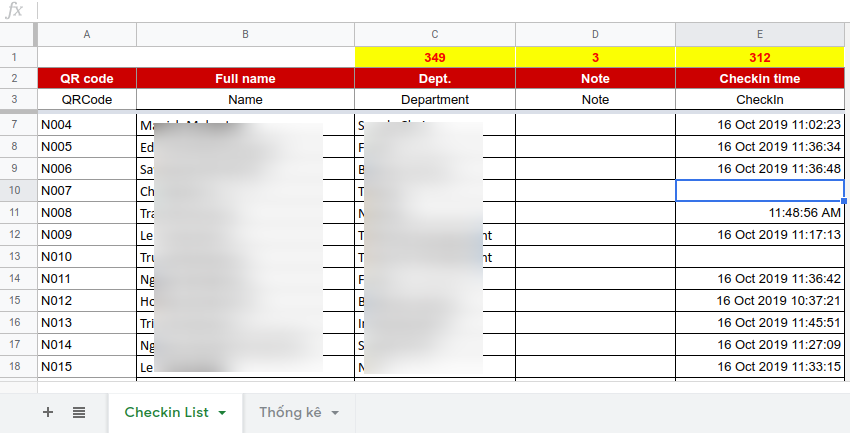
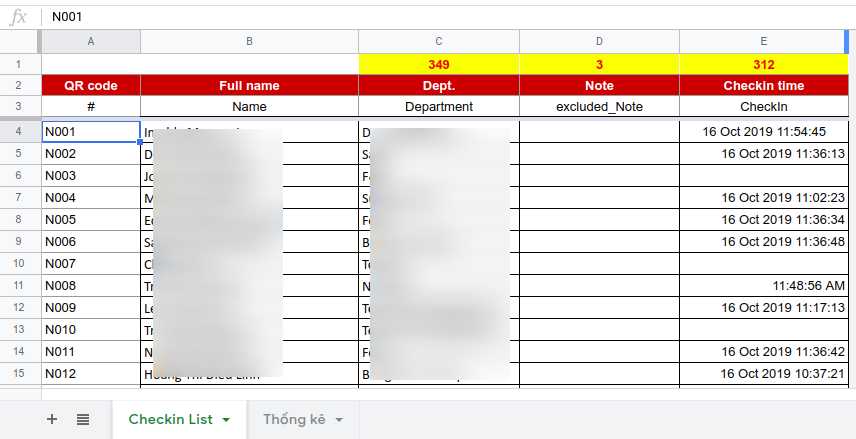
update code

diff --git a/README.md b/README.md
@@ -1,140 +1,150 @@
 
-# G-Sheet Rest.API Sample project  
-This small lib and manual help you expose an Google Sheet as a Rest-API the easy way, so you can invoke a url to query and update to the sheet.
+  
+# G-Sheet Rest.API sample project 
 
-## Introduction
-Every Google-Sheet when published as a Webservice has following BaseUrl:
-
- - For Dev: https://script.google.com/macros/s/AKfycbzBprX5bCAClCElDBuGHGwvNvBvSpoQdCqid5_XyumJ/dev
- - For Live: https://script.google.com/macros/s/AKfycbzBprX5bCAClCElDBuGHGwvNvBvSpoQdCqid5_XyumJ/exec
-
-So your RestAPI to the Sheet will look like following:
-- Base Link https://script.google.com/macros/s/AKfycbzBprX5bCAClCElDBuGHGwvNvBvSpoQdCqid5_XyumJ/dev      
-- Get One Record https://script.google.com/macros/s/AKfycbzBprX5bCAClCElDBuGHGwvNvBvSpoQdCqid5_XyumJ/dev?path=/**[your_end_point]**/**[id_value in id_column]**
-This url will return all fields of 1 (single) record/row which has id_value in the id_column
-- Get List with Paging https://script.google.com/macros/s/AKfycbzBprX5bCAClCElDBuGHGwvNvBvSpoQdCqid5_XyumJ/dev?path=/**[your_end_point]**&**order**=field_name&**offset**=0&**limit**=25
-This url will return all fields of N (**limit**) records starting at the **offset**, ordering by field_name
-- Update a Record https://script.google.com/macros/s/AKfycbzBprX5bCAClCElDBuGHGwvNvBvSpoQdCqid5_XyumJ/dev?path=/**[your_end_point]**/**[id_value in id_column]**&**method=POST**&field_name1=something&field_name2=other_something
-This url will update a single record/row which has id_value in the id_column. All fields listing here will be overwrite. The fields that do not existed in the sheet will be ignored.
-
-## Data Requirement
-First you need a Working Google Sheet with 
-
-## Installation
-Following installation procedure will be done in **The Script Editor**. Please open at menu **Tool > Script Editor**
-
-### Required Libraries  
-This project using the support of 3 other projects:
- 1. *GExpress* which helps expose a sheet to Rest  
- 2. *Tamotsu* which helps turn   a Sheet into an *ActiveRecord* style 
- 3. *GExpressTamotsu* will combine the 2 wonderful projects above.
-
-Please add the required libraries in **The Script Editor** at menu **Resource > Libraries** 
-
-|  Name|Library Key  | Version |  
-|--|--|--|  
-| Gexpress |  1Lm_jNmD2FWYF-Kgj7AdHVvLEVXZ4c5AXwzd1KJSb48scn0HLBq64um7S | 24 |  
-| Tamotsu |  1OiJIgWlrg_DFHFYX_SoaEzhFJPCmwbbfEHEqYEfLEEhKRloTNVJ-3U4s| 31 |  
-| GexpressTamotsu |  1OiJIgWlrg_DFHFYX_SoaEzhFJPCmwbbfEHEqYEfLEEhKRloTNVJ-3U4s| 33 |  
+This small lib and manual help you expose an Google Sheet as a Rest-API the easy way, so you can invoke a url to query and update to the sheet.  
+  
+## Introduction  
+Every Google-Sheet when published as a Webservice has following BaseUrl:  
+  
+ - For Dev: https://script.google.com/macros/s/AKfycbzBprX5bCAClCElDBuGHGwvNvBvSpoQdCqid5_XyumJ/dev  
+ - For Live: https://script.google.com/macros/s/AKfycbzBprX5bCAClCElDBuGHGwvNvBvSpoQdCqid5_XyumJ/exec  
+  
+So your Rest.API to the Sheet will look like following (all links are GET method): 
  
+ - Base Link https://script.google.com/macros/s/AKfycbzBprX5bCAClCElDBuGHGwvNvBvSpoQdCqid5_XyumJ/dev        
+ - Get One Record https://script.google.com/macros/s/AKfycbzBprX5bCAClCElDBuGHGwvNvBvSpoQdCqid5_XyumJ/dev?path=/**[your_end_point]**/**[id_value in id_column]**  
+This url will return all fields of 1 (single) record/row which has id_value in the id_column  
+ - Get List with Paging https://script.google.com/macros/s/AKfycbzBprX5bCAClCElDBuGHGwvNvBvSpoQdCqid5_XyumJ/dev?path=/**[your_end_point]**&**order**=field_name&**offset**=0&**limit**=25  
+This url will return all fields of N (**limit**) records starting at the **offset**, ordering by field_name  
+ - Update a Record https://script.google.com/macros/s/AKfycbzBprX5bCAClCElDBuGHGwvNvBvSpoQdCqid5_XyumJ/dev?path=/**[your_end_point]**/**[id_value in id_column]**&**method=POST**&field_name1=something&field_name2=other_something  
+This url will update the *whole single record/row* which has *id_value* in the *id_column*. All fields listing here will be overwrite. The fields which are not existed in the sheet will be ignored.   
+  
+## Data Requirement  
+  
+![alt text](https://raw.githubusercontent.com/vantt/GSheet-REST/master/document/images/GuestList.png)  
+  
+ - First you need a Working Google Sheet as picture.
+ - Second, you need (*optional*) an extra-dedicated-row serving as the header for your table.
+
+### Why needing an extra-dedicated-row for table-header?
+A table must have a header, and you always have header when working with a table. 
+But when exposing the table as a REST.API, sometime, you don't need all the fields, so an extra-dedicated-row should be used to:
+
+ - First, rename a column to *machine-friendly-name* 
+ - Second, exclude (ignore) some columns
+
+So finally, you may have two (2) headers on your table. First is for business-usage, and the second is for machine-usage.
+
+The machine-usage-header must be *immediately-above* your data.  In above example, the row-3 is *machine-usage-header*, and the row-2 is *business-usage-header*
+ 
+For any ignored columns, please name it wit prefix excluded_xxxxxx 
+
+## Installation  
+Following installation procedure will be done in **The Script Editor**. Please open at menu **Tool > Script Editor**  
+  
+### Step 1: Add required libraries 
+This project using the support of 3 other projects:  
+ 1. *GExpress* which helps expose a sheet to Rest    
+ 2. *Tamotsu* which helps turn   a Sheet into an *ActiveRecord* style   
+ 3. *GExpressTamotsu* will combine the 2 wonderful projects above.  
+  
+Please add the required libraries in **The Script Editor** at menu **Resource > Libraries**   
+|  Name|Library Key  | Version |    
+|--|--|--|    
+| Gexpress |  1Lm_jNmD2FWYF-Kgj7AdHVvLEVXZ4c5AXwzd1KJSb48scn0HLBq64um7S | 24 |    
+| Tamotsu |  1OiJIgWlrg_DFHFYX_SoaEzhFJPCmwbbfEHEqYEfLEEhKRloTNVJ-3U4s| 31 |    
+| GexpressTamotsu |  1OiJIgWlrg_DFHFYX_SoaEzhFJPCmwbbfEHEqYEfLEEhKRloTNVJ-3U4s| 33 |    
    
-### Copy following files to your project  
-- App.js  
-- GExpressTamotsu.js  
-- SampleModel.js  
-  
-### Declare your Sheet as a Model
-- clone SampleModel.js to YOUR_MODEL_NAME.js  
-- edit YOUR_MODEL_NAME.js as following  
--  
-
-     var YOUR_MODEL_NAME = new ModelDefinition(  
-      'your_rest_endpoint', 
-      'Your Sheet Name', 
-      'id column', 
-      number_of_rowshift, 
-      { 
-         autoIncrement: false, 
-         colShift: 0 
-      }, 
-      { 
-         validate: function (on) { 
-	         // if (!this['First Name']) { 
-	         //   	this.errors['First Name'] = "can't be blank"; 
-	         // } 
-         },  
-         
-	     // instance-Properties 
-	     a_calculated_field_name1: function () { 
-		      //return this['Last Name'] +  this['First Name'] 
-		 }, 
-	  }
-	 );  
-
-#### 'your_rest_endpoint'
-âsdfấdfádfádfádfádf
-
-#### 'Your Sheet Name'
-ádfấdfấdf
-
-#### id_column
-ádfấdfádf
-
-#### number_of_rowshift
-
-
-
-### Register your model in the App.js  
-  
- function setupMiddleware() {      // here is your line to register a new model   
-      app.use(YOUR_MODEL_NAME1.getMiddleWare());  
- app.use(YOUR_MODEL_NAME2.getMiddleWare()); app.use(YOUR_MODEL_NAMEX.getMiddleWare()); }  
-### Url to access your Sheet  
-- Base Link https://script.google.com/macros/s/AKfycbzBprX5bCAClCElDBuGHGwvNvBvSpoQdCqid5_XyumJ/dev      
-- Get One Record https://script.google.com/macros/s/AKfycbzBprX5bCAClCElDBuGHGwvNvBvSpoQdCqid5_XyumJ/dev?path=/**[your_end_point]**/**[value in id_column]** - Get List with Paging https://script.google.com/macros/s/AKfycbzBprX5bCAClCElDBuGHGwvNvBvSpoQdCqid5_XyumJ/dev?path=/**[your_end_point]**&**order**=field_qrcode&**offset**=0&**limit**=25      
-- Update a Record https://script.google.com/macros/s/AKfycbzBprX5bCAClCElDBuGHGwvNvBvSpoQdCqid5_XyumJ/dev?path=/**[your_end_point]**/**[value in id_column]**&**method=POST**&field_name1=something&field_name2=other_something  
-  
-  
-## Javascript OOP ### SUMMARY **private variables**    
-- are declared with the ***var*** keyword inside the object,      
- - and can ***only be accessed by private functions and privileged methods***.    
-    
-**public properties** - are declared with ***this.variableName*** and     
-- may be read/written ***from outside*** the object.      
-    
-**private functions** - are declared inline inside the object's constructor ***function ABC ()*** - or alternatively may be defined via ***var functionName=function(){...})*** - and may ***only be called by privileged methods*** (including the object's constructor).      
-    
-**privileged methods** - are declared with ***this.methodName=function(){...}*** - may ***invoked by code external to the object***.      
-    
-**public methods** - are defined by ***Classname.prototype.methodName = function(){...}*** - and may be called from outside the object, but ***can not access private variables/functions*** **prototype properties** - are defined by Classname.prototype.propertyName = someValue      
-    
-**static properties** - are defined by Classname.propertyName = someValue      
      
-### LINKS - https://developer.mozilla.org/en-US/docs/Learn/JavaScript/Objects/Object-oriented_JS - http://javascript.crockford.com/private.html      
-- http://phrogz.net/JS/Classes/OOPinJS.html      
-- http://ryanmorr.com/understanding-scope-and-context-in-javascript/      
-- https://stackoverflow.com/questions/3066688/why-make-non-privileged-methods      
-
-## TypeScript support  
-https://github.com/google/clasp/blob/master/docs/typescript.md  
-       
-      
-## CLASP  Guide ### References: https://codelabs.developers.google.com/codelabs/clasp/#0      
-https://developers.google.com/apps-script/guides/clasp      
-      
-### Install    
- npm install @google/clasp -g ### Enable Google Apps Script API at https://script.google.com/home/usersettings      
+### Step 2: Copy following files to your project 
+- App.js    
+- GExpressTamotsu.js    
+- SampleModel.js    
     
-### login to google clasp login     
-### clone the script-project to local     
-    clasp clone <scriptId>      
- ### pull newest code to local clasp pull     
-### push newest code back to google    
- clasp push  ### open the script on the Cloud clasp open      
-      
-      
-## Dev Test Links - Spreadsheet Link: https://docs.google.com/spreadsheets/d/19F17l6aG1FPmz4nrnF1SFDpI2apGZww9jN74A-jw9z8/edit?usp=drive_web&ouid=114197530501182189783  
-- Base Link https://script.google.com/macros/s/AKfycbzBprX5bCAClCElDBuGHGwvNvBvSpoQdCqid5_XyumJ/dev      
-- Get One Record https://script.google.com/macros/s/AKfycbzBprX5bCAClCElDBuGHGwvNvBvSpoQdCqid5_XyumJ/dev?path=/sample/A339      
-- Get List with Paging https://script.google.com/macros/s/AKfycbzBprX5bCAClCElDBuGHGwvNvBvSpoQdCqid5_XyumJ/dev?path=/sample&order=field_qrcode&offset=0&limit=25      
-- Update a Record https://script.google.com/macros/s/AKfycbzBprX5bCAClCElDBuGHGwvNvBvSpoQdCqid5_XyumJ/dev?path=/sample/A339&method=POST&field_khungdien=xyz&field_Salutation=caca5
+### Step 3: Declare a Sheet as a Model  
+- clone SampleModel.js to YOUR_MODEL_NAME.js    (one sheet, one file)
+- edit YOUR_MODEL_NAME.js as following    
+-   
+  
+
+    var YOUR_MODEL_NAME = new ModelDefinition(    
+          'your_rest_endpoint',   
+          'Your Sheet Name',   
+          'id column',   
+          number_of_rowshift,   
+          {   
+             autoIncrement: false,   
+             colShift: 0   
+          },   
+          {   
+             validate: function (on) {   
+                // if (!this['First Name']) {   
+                //    this.errors['First Name'] = "can't be blank";   
+                // }   
+             },    
+               
+             // instance-Properties   
+             a_calculated_field_name1: function () {   
+                 //return this['Last Name'] +  this['First Name']   
+             },   
+          }  
+        );    
+
+#### Explain:  'Your Sheet Name'  
+This is the exactly name of your Sheet in the Google Spreadsheet file.
+Example: ***Checkin List*** or ***Thống kê***
+ 
+![alt text](https://raw.githubusercontent.com/vantt/GSheet-REST/master/document/images/GuestList.png)
+  
+#### Explain:  'your_rest_endpoint'  
+This ***rest_end_point*** is used as the *machine-name* to your sheet, and will be appended to the GSheet's url. 
+
+If your GSheet url is  
+https://script.google.com/macros/s/AKfycbzBprX5bCAClCElDBuGHGwvNvBvSpoQdCqid5_XyumJ/dev  
+  
+And your sheet name is 'Guest List', you can name the *rest_endpoint* as ***guestlist*** or ***guest_list***  
+And the REST url should be:  
+https://script.google.com/macros/s/AKfycbzBprX5bCAClCElDBuGHGwvNvBvSpoQdCqid5_XyumJ/dev?path=/***guest_list***  
+  
+#### Explain:  id_column  
+This is the name of the column in which the values are used as *unique-identification (id)* for a row.
+Example: ***QR Code***  
+
+#### Explain:  number_of_rowshift  
+This is the number of rows will be skip from the first-row of the sheet(1) to the first row of your table, includes the header.
+
+Example: in below table, ***the number_of_rowshift*** is **2**,  the first row of the table is row **3** (the header), 3 - 1 = 2
+
+#### Explain: a_calculated_field_name1
+This is called the instance-field or calculated-field. This field is not exist in the table, but will be calculated on the instance of the row object,
+
+#### Explain: validation
+Use this feature when you need to do a custom validation before updating/editing the row.
+
+
+![alt text](https://raw.githubusercontent.com/vantt/GSheet-REST/master/document/images/GuestList.png)
+  
+  
+### Step 4: Repeat step-3 for any exposed-sheets
+Do the same things as listed in the step 3 for any other sheets.  
+  
+### Step 5: Register your models in the App.js    
+    
+     function setupMiddleware() {      
+          // here is your line to register a new models     
+          app.use(YOUR_MODEL_NAME1.getMiddleWare());    
+          app.use(YOUR_MODEL_NAME2.getMiddleWare());    
+          app.use(YOUR_MODEL_NAMEX.getMiddleWare()); 
+     } 
+
+   
+
+### Step 6: Test your Sheets
+
+Urls to access your Sheet 
+- Base Link https://script.google.com/macros/s/AKfycbzBprX5bCAClCElDBuGHGwvNvBvSpoQdCqid5_XyumJ/dev        
+- Get One Record https://script.google.com/macros/s/AKfycbzBprX5bCAClCElDBuGHGwvNvBvSpoQdCqid5_XyumJ/dev?path=/**[your_end_point]**/**[value in id_column]** - Get List with Paging https://script.google.com/macros/s/AKfycbzBprX5bCAClCElDBuGHGwvNvBvSpoQdCqid5_XyumJ/dev?path=/**[your_end_point]**&**order**=field_qrcode&**offset**=0&**limit**=25        
+- Update a Record https://script.google.com/macros/s/AKfycbzBprX5bCAClCElDBuGHGwvNvBvSpoQdCqid5_XyumJ/dev?path=/**[your_end_point]**/**[value in id_column]**&**method=POST**&field_name1=something&field_name2=other_something    
+    
+    

diff --git a/Note.md b/Note.md
@@ -1,0 +1,30 @@
+## Javascript OOP ### SUMMARY **private variables** - are declared with the ***var*** keyword inside the object,        
+ - and can ***only be accessed by private functions and privileged methods***.      
+      
+**public properties** - are declared with ***this.variableName*** and       
+- may be read/written ***from outside*** the object.        
+      
+**private functions** - are declared inline inside the object's constructor ***function ABC ()*** - or alternatively may be defined via ***var functionName=function(){...})*** - and may ***only be called by privileged methods*** (including the object's constructor).        
+      
+**privileged methods** - are declared with ***this.methodName=function(){...}*** - may ***invoked by code external to the object***.        
+      
+**public methods** - are defined by ***Classname.prototype.methodName = function(){...}*** - and may be called from outside the object, but ***can not access private variables/functions*** **prototype properties** - are defined by Classname.prototype.propertyName = someValue        
+      
+**static properties** - are defined by Classname.propertyName = someValue        
+       
+### LINKS - https://developer.mozilla.org/en-US/docs/Learn/JavaScript/Objects/Object-oriented_JS - http://javascript.crockford.com/private.html - http://phrogz.net/JS/Classes/OOPinJS.html        
+- http://ryanmorr.com/understanding-scope-and-context-in-javascript/        
+- https://stackoverflow.com/questions/3066688/why-make-non-privileged-methods        
+  
+## TypeScript support https://github.com/google/clasp/blob/master/docs/typescript.md    
+         
+        
+## CLASP  Guide ### References: https://codelabs.developers.google.com/codelabs/clasp/#0 https://developers.google.com/apps-script/guides/clasp        
+        
+### Install      
+ npm install @google/clasp -g ### Enable Google Apps Script API at https://script.google.com/home/usersettings        
+      
+### login to google clasp login ### clone the script-project to local       
+    clasp clone <scriptId>        
+ ### pull newest code to local clasp pull ### push newest code back to google      
+ clasp push  ### open the script on the Cloud clasp open              
